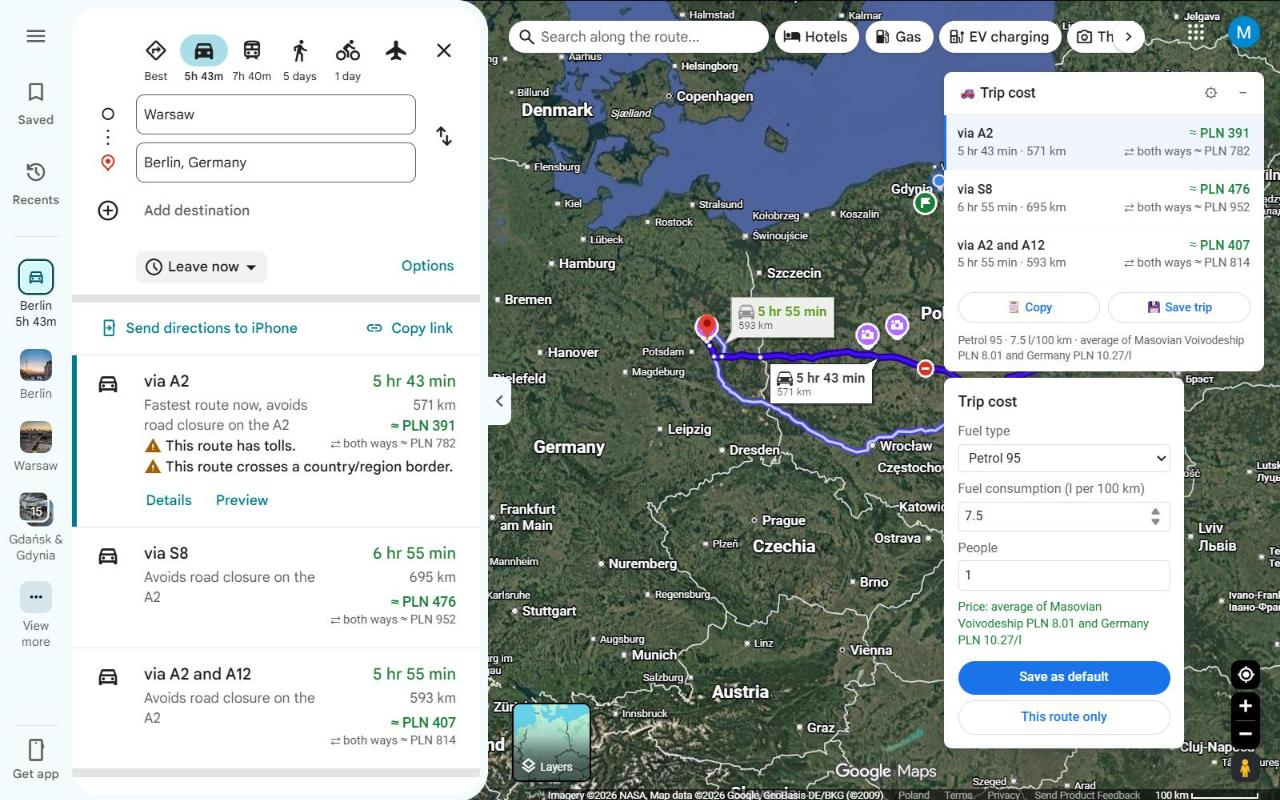
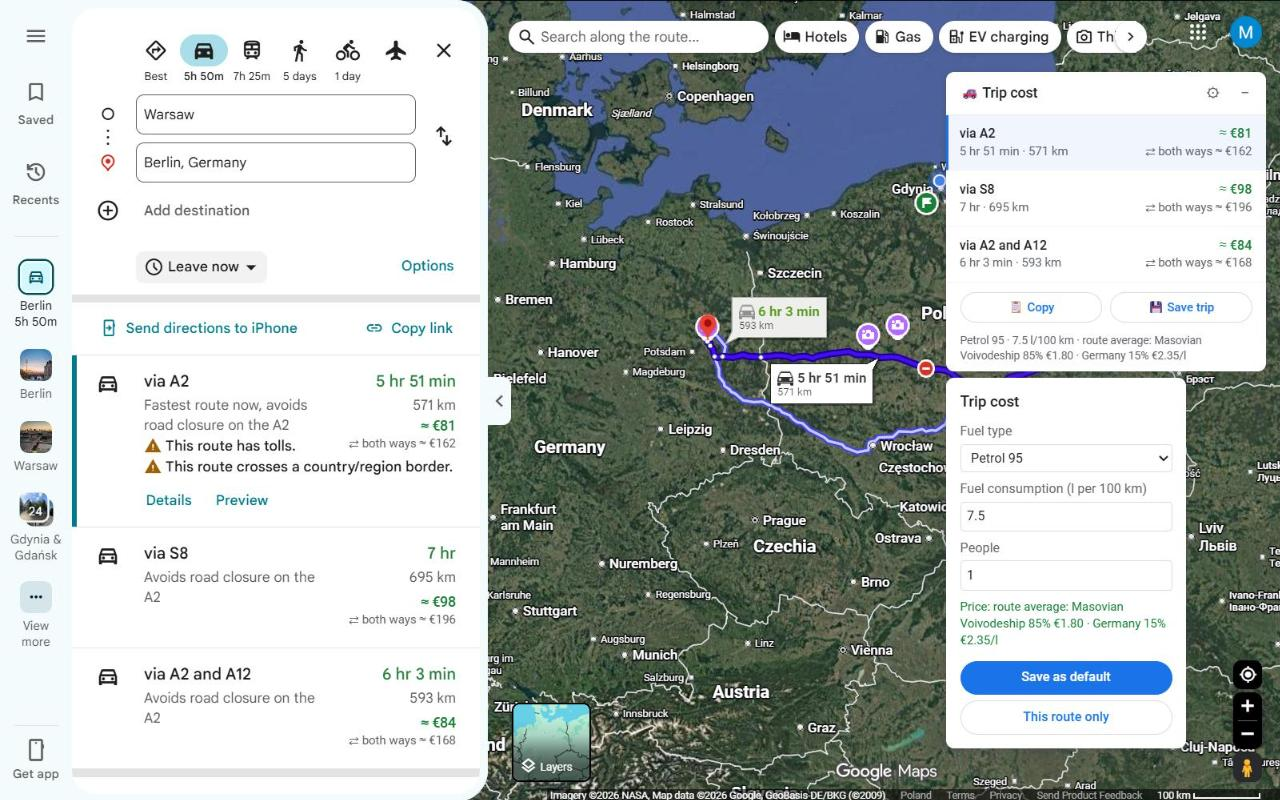
English by default: messages, tools, tests and EUR screenshots - extension: English console and error messages; the price source is   shown in the chosen currency instead of always in PLN - site: English voivodeship names on English pages, translated language   switch label, English defaults in the 

diff --git a/tools/build-site.js b/tools/build-site.js
@@ -119,9 +119,9 @@ function pageHtml(template, page, strings) {
     .replace("</head>", `${headTags(page, s)}\n  </head>`);
   if (page.route) html = html.replace('<meta charset="UTF-8" />', '<meta charset="UTF-8" />\n    <base href="../" />');
   if (!html.includes(`<title>${esc(s.title)}</title>`) || !html.includes(esc(s.description))) {
-    throw new Error(`${page.file}: nie udało się podmienić tytułu lub opisu w index.html`);
+    throw new Error(`${page.file}: could not replace the title or description in index.html`);
   }
-  if (page.route && !html.includes('<base href="../" />')) throw new Error(`${page.file}: brak <base>`);
+  if (page.route && !html.includes('<base href="../" />')) throw new Error(`${page.file}: missing <base>`);
   return html;
 }
 
@@ -160,17 +160,17 @@ async function prerender(pages, strings) {
       const dom = await dumpDom(`http://127.0.0.1:${port}${page.path}?prerender=1`, { timeZone: page.timeZone });
       const match = dom.match(/<div id="root">([\s\S]*?)<\/div>\s*<script src="messages\.js">/);
       const heading = esc(pageStrings(page, strings).heading);
-      if (!match || !match[1].includes(heading)) throw new Error(`${page.file}: w wyrenderowanej stronie brak nagłówka „${heading}”`);
-      if (page.route && !match[1].includes("<table")) throw new Error(`${page.file}: w wyrenderowanej stronie brak tabeli kosztów`);
+      if (!match || !match[1].includes(heading)) throw new Error(`${page.file}: the rendered page has no heading "${heading}"`);
+      if (page.route && !match[1].includes("<table")) throw new Error(`${page.file}: the rendered page has no cost table`);
       const file = path.join(SITE, page.file);
       const html = fs.readFileSync(file, "utf8").replace('<div id="root"></div>', `<div id="root">${match[1]}</div>`);
       fs.writeFileSync(file, html);
-      if (!page.route) console.log(`${page.file}: gotowy HTML (${Math.round(match[1].length / 1024)} KB treści)`);
+      if (!page.route) console.log(`${page.file}: prerendered (${Math.round(match[1].length / 1024)} KB of content)`);
     }
   };
   try {
     await Promise.all(Array.from({ length: 4 }, worker));
-    console.log(`Strony tras: ${pages.filter((p) => p.route).length} z gotowym HTML`);
+    console.log(`Route pages: ${pages.filter((p) => p.route).length} prerendered`);
   } finally {
     server.close();
   }
@@ -196,16 +196,16 @@ async function main() {
   fs.writeFileSync(path.join(SITE, "sitemap.xml"), sitemap());
 
   if (args.includes("--no-prerender")) {
-    console.log("Bez prerenderingu (--no-prerender)");
+    console.log("Prerendering skipped (--no-prerender)");
   } else {
     try {
       await prerender(PAGES, strings);
     } catch (e) {
       if (process.env.CI) throw e;
-      console.warn(`Prerendering pominięty: ${e.message}`);
+      console.warn(`Prerendering skipped: ${e.message}`);
     }
   }
-  console.log(`_site/: ${PAGES.length} stron`);
+  console.log(`_site/: ${PAGES.length} pages`);
 }
 
 main().catch((e) => {

diff --git a/settings.js b/settings.js
@@ -227,6 +227,11 @@ function mapkaRouteShares(points, borders = MAPKA_BORDERS) {
   return Object.fromEntries(kept.sort((x, y) => y[1] - x[1]).map(([cc, v]) => [cc, v / keptTotal]));
 }
 
+function mapkaShownUnitPrice(pln, currency, data) {
+  const local = mapkaFromPln(pln, currency, data);
+  return local == null ? mapkaFormatUnitPrice(pln, "PLN") : mapkaFormatUnitPrice(local, currency);
+}
+
 function mapkaRoutePricePln(s, data, geo) {
   const parts = [];
   for (const [cc, share] of Object.entries(geo.shares)) {
@@ -241,11 +246,7 @@ function mapkaRoutePricePln(s, data, geo) {
     source: mapkaT(
       "price_route",
       parts
-        .map((p) => {
-          const local = mapkaFromPln(p.price, s.currency, data);
-          const shown = local == null ? mapkaFormatUnitPrice(p.price, "PLN") : mapkaFormatUnitPrice(local, s.currency);
-          return `${p.label} ${Math.round((p.share / total) * 100)}% ${shown}`;
-        })
+        .map((p) => `${p.label} ${Math.round((p.share / total) * 100)}% ${mapkaShownUnitPrice(p.price, s.currency, data)}`)
         .join(" · ")
     ),
   };
@@ -268,7 +269,7 @@ function mapkaResolvePrice(s, data, geo) {
   const origin = mapkaLocalPricePln(s, data, geo?.origin);
   if (!origin) return { ...manual, source: mapkaT("price_missing") };
   let pln = origin.price;
-  let source = mapkaT("price_single", origin.label, mapkaFormatUnitPrice(origin.price, "PLN"));
+  let source = mapkaT("price_single", origin.label, mapkaShownUnitPrice(origin.price, cur, data));
 
   const originCc = (geo?.origin?.cc || "pl").toUpperCase();
   const destCc = geo?.dest?.cc?.toUpperCase();
@@ -283,9 +284,9 @@ function mapkaResolvePrice(s, data, geo) {
       source = mapkaT(
         "price_average",
         origin.label,
-        mapkaFormatUnitPrice(origin.price, "PLN"),
+        mapkaShownUnitPrice(origin.price, cur, data),
         dest.label,
-        mapkaFormatUnitPrice(dest.price, "PLN")
+        mapkaShownUnitPrice(dest.price, cur, data)
       );
     }
   }

diff --git a/tools/chrome.js b/tools/chrome.js
@@ -13,7 +13,7 @@ const CHROME = [
 ].find((p) => p && fs.existsSync(p));
 
 function screenshot(htmlFile, width, height, out, { transparent = false, waitMs = 0 } = {}) {
-  if (!CHROME) throw new Error("Nie znaleziono Chrome – ustaw zmienną CHROME");
+  if (!CHROME) throw new Error("Chrome not found – set the CHROME environment variable");
   const profile = fs.mkdtempSync(path.join(os.tmpdir(), "tankful-chrome-"));
   try {
     execFileSync(CHROME, [
@@ -34,7 +34,7 @@ function screenshot(htmlFile, width, height, out, { transparent = false, waitMs 
 }
 
 function dumpDom(url, { waitMs = 5000, timeZone } = {}) {
-  if (!CHROME) return Promise.reject(new Error("Nie znaleziono Chrome – ustaw zmienną CHROME"));
+  if (!CHROME) return Promise.reject(new Error("Chrome not found – set the CHROME environment variable"));
   const profile = fs.mkdtempSync(path.join(os.tmpdir(), "tankful-chrome-"));
   const args = [
     "--headless=new",
@@ -115,10 +115,10 @@ function flattenPng(file, background = [255, 255, 255]) {
   }
   const width = ihdr.readUInt32BE(0);
   const height = ihdr.readUInt32BE(4);
-  if (ihdr[8] !== 8 || ihdr[12] !== 0) throw new Error(`${file}: obsługiwany tylko 8-bitowy PNG bez przeplotu`);
+  if (ihdr[8] !== 8 || ihdr[12] !== 0) throw new Error(`${file}: only 8-bit non-interlaced PNG is supported`);
   const colorType = ihdr[9];
   if (colorType === 2) return;
-  if (colorType !== 6) throw new Error(`${file}: nieobsługiwany typ koloru ${colorType}`);
+  if (colorType !== 6) throw new Error(`${file}: unsupported colour type ${colorType}`);
 
   const rgba = unfilter(zlib.inflateSync(Buffer.concat(idat)), width, height, 4);
   const rows = Buffer.alloc((width * 3 + 1) * height);

diff --git a/tools/fetch-prices.js b/tools/fetch-prices.js
@@ -4,7 +4,7 @@ const vm = require("vm");
 
 const ROOT = path.join(__dirname, "..");
 const [out, previousUrl] = process.argv.slice(2);
-if (!out) throw new Error("Podaj ścieżkę pliku wyjściowego");
+if (!out) throw new Error("Pass the output file path");
 
 const messages = JSON.parse(fs.readFileSync(path.join(ROOT, "_locales/pl/messages.json"), "utf8"));
 const store = {};
@@ -53,10 +53,10 @@ async function previous() {
   const missing = ["fuelPrices", "euPrices", "nbpRates"].filter((k) => !result[k]);
   fs.mkdirSync(path.dirname(path.resolve(out)), { recursive: true });
   fs.writeFileSync(out, JSON.stringify(result));
-  for (const e of errors) console.warn(`uwaga: ${e}`);
-  console.log(`${out}: ${Object.keys(result.regionalPrices).length} województw, kraje UE: ${Object.keys(result.euPrices?.prices || {}).length}`);
+  for (const e of errors) console.warn(`warning: ${e}`);
+  console.log(`${out}: ${Object.keys(result.regionalPrices).length} regions, EU countries: ${Object.keys(result.euPrices?.prices || {}).length}`);
   if (missing.length) {
-    console.error(`brak danych: ${missing.join(", ")}`);
+    console.error(`missing data: ${missing.join(", ")}`);
     process.exit(1);
   }
 })();

diff --git a/site/src/lib/places.ts b/site/src/lib/places.ts
@@ -75,9 +75,13 @@ const REGION_CODES = Object.fromEntries(
 )
 
 const REGION_NAMES = Object.fromEntries(
-  ["dolnośląskie", "kujawsko-pomorskie", "lubelskie", "lubuskie", "łódzkie", "małopolskie", "mazowieckie", "opolskie",
-   "podkarpackie", "podlaskie", "pomorskie", "śląskie", "świętokrzyskie", "warmińsko-mazurskie", "wielkopolskie",
-   "zachodniopomorskie"].map((name) => [slugOf(name), `województwo ${name}`])
+  [
+    ["dolnośląskie", "Lower Silesian"], ["kujawsko-pomorskie", "Kuyavian-Pomeranian"], ["lubelskie", "Lublin"],
+    ["lubuskie", "Lubusz"], ["łódzkie", "Łódź"], ["małopolskie", "Lesser Poland"], ["mazowieckie", "Masovian"],
+    ["opolskie", "Opole"], ["podkarpackie", "Subcarpathian"], ["podlaskie", "Podlaskie"], ["pomorskie", "Pomeranian"],
+    ["śląskie", "Silesian"], ["świętokrzyskie", "Holy Cross"], ["warmińsko-mazurskie", "Warmian-Masurian"],
+    ["wielkopolskie", "Greater Poland"], ["zachodniopomorskie", "West Pomeranian"],
+  ].map(([pl, en]) => [slugOf(pl), MAPKA_LOCALE === "pl" ? `województwo ${pl}` : `${en} Voivodeship`])
 )
 
 export function placeGeo(place: Place): MapkaPlace {

diff --git a/content.js b/content.js
@@ -181,7 +181,7 @@
     const { targets, fallback } = mapkaDistanceTargets();
     if (fallback && !fallbackLogged) {
       fallbackLogged = true;
-      console.info("[Tankful] Znane klasy Google Maps nie pasują – używam wyszukiwania awaryjnego. Warto poprawić MAPKA_DOM w dom.js.");
+      console.info("[Tankful] Known Google Maps classes no longer match – using the fallback search. MAPKA_DOM in dom.js needs updating.");
     }
     for (const { el: distEl, mode } of targets) {
       const km = mapkaParseKm(distEl.textContent);
@@ -247,7 +247,7 @@
       return;
     }
     if (warnEl || warnDismissedKey === routeKey()) return;
-    console.warn("[Tankful] Nie znaleziono dystansu trasy (także awaryjnie) – selektory w dom.js wymagają poprawki:", MAPKA_DOM);
+    console.warn("[Tankful] Route distance not found (fallback included) – the selectors in dom.js need updating:", MAPKA_DOM);
     warnEl = el("div", "mapka-warning");
     const close = el("button", "mapka-warning__close", "×");
     close.title = mapkaT("warn_hide");

diff --git a/site/index.html b/site/index.html
@@ -1,10 +1,10 @@
 <!doctype html>
-<html lang="pl">
+<html lang="en">
   <head>
     <meta charset="UTF-8" />
     <meta name="viewport" content="width=device-width, initial-scale=1.0" />
-    <title>Kalkulator kosztu przejazdu – Tankful</title>
-    <meta name="description" content="Policz koszt paliwa na trasę po aktualnych cenach w Polsce i krajach UE – także przez kilka krajów, dla auta elektrycznego i na osobę." />
+    <title>Trip fuel cost calculator – Tankful</title>
+    <meta name="description" content="Work out the fuel cost of a trip with current average prices in Poland and the EU – across borders, for electric cars and per person." />
     <link rel="icon" type="image/svg+xml" href="icon.svg" />
     <script>
       let theme = null

diff --git a/tools/build-borders.js b/tools/build-borders.js
@@ -55,7 +55,7 @@ function inBbox(coords) {
 }
 
 const src = process.argv[2];
-if (!src) throw new Error("Podaj ścieżkę do ne_50m_admin_0_countries.geojson");
+if (!src) throw new Error("Pass the path to ne_50m_admin_0_countries.geojson");
 const { features } = JSON.parse(fs.readFileSync(src, "utf8"));
 const borders = {};
 for (const f of features) {
@@ -77,4 +77,4 @@ fs.writeFileSync(
   path.join(ROOT, "borders.js"),
   `const MAPKA_BORDERS = {\n${body}\n};\n`
 );
-console.log(`borders.js: ${Object.keys(borders).length} krajów, ${fs.statSync(path.join(ROOT, "borders.js")).size} B`);
+console.log(`borders.js: ${Object.keys(borders).length} countries, ${fs.statSync(path.join(ROOT, "borders.js")).size} B`);

diff --git a/site/src/lib/strings.ts b/site/src/lib/strings.ts
@@ -90,6 +90,7 @@ export const SITE_STRINGS = {
     routePerPerson: "Na osobę (4 os.)",
     routeAssumption: "Wyliczenie dla najszybszej trasy i typowego spalania. Swoje spalanie, liczbę osób i warianty trasy ustawisz w kalkulatorze.",
     popularRoutes: "Popularne trasy",
+    language: "Język",
   },
   en: {
     title: "Trip fuel cost calculator – Tankful",
@@ -182,6 +183,7 @@ export const SITE_STRINGS = {
     routePerPerson: "Per person (4 people)",
     routeAssumption: "Costed for the fastest route and typical consumption. Set your own consumption, passengers and route options in the calculator.",
     popularRoutes: "Popular routes",
+    language: "Language",
   },
 };
 

diff --git a/background.js b/background.js
@@ -129,7 +129,7 @@ function parseEuBulletin(files) {
 
 async function refreshEu() {
   const res = await fetch(EU_BULLETIN_URL, { cache: "no-store" });
-  if (!res.ok) throw new Error(`Biuletyn UE: HTTP ${res.status}`);
+  if (!res.ok) throw new Error(`EU Weekly Oil Bulletin: HTTP ${res.status}`);
   const files = await unzip(await res.arrayBuffer(), ["xl/sharedStrings.xml", "xl/worksheets/sheet1.xml"]);
   const euPrices = { ...parseEuBulletin(files), fetchedAt: Date.now() };
   await chrome.storage.local.set({ euPrices });

diff --git a/tools/pack.js b/tools/pack.js
@@ -79,7 +79,7 @@ if (require.main === module) {
   const out = path.join(ROOT, "dist", `tankful-${version}.zip`);
   fs.mkdirSync(path.dirname(out), { recursive: true });
   fs.writeFileSync(out, zip(files));
-  console.log(`${path.relative(ROOT, out)} – ${files.length} plików, ${Math.round(fs.statSync(out).size / 1024)} KB`);
+  console.log(`${path.relative(ROOT, out)} – ${files.length} files, ${Math.round(fs.statSync(out).size / 1024)} KB`);
   for (const f of files) console.log("  " + f);
 }
 
